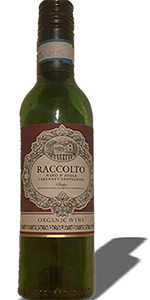
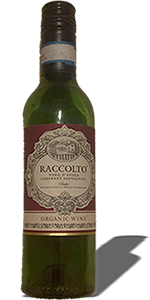
Resized all product images and optimized the portrait image in OM MIG

Changed region(s): [[0.1067, 0.0, 0.9867, 1.0], [0.1867, 0.36, 0.2133, 0.39]]

diff --git a/index.html b/index.html
@@ -64,30 +64,30 @@
           <source
             type="image/webp"
             media="(max-width: 695px)"
-            srcset="img/frilaggning01w150.webp"
+            srcset="img/frilaggning01w125.webp"
           />
           <source
             type="image/webp"
             media="(max-width: 834px)"
-            srcset="img/frilaggning01w230.webp"
+            srcset="img/frilaggning01w150.webp"
           />
-          <source type="image/webp" srcset="img/frilaggning01w250.webp" />
+          <source type="image/webp" srcset="img/frilaggning01w175.webp" />
           <!-- load png in different sizes if browser doesn't support webp -->
           <source
             type="image/png"
             media="(max-width: 834px)"
-            srcset="img/frilaggning01w230.png"
+            srcset="img/frilaggning01w150.png"
           />
           <source
             type="image/png"
             media="(max-width: 695px)"
-            srcset="img/frilaggning01w150.png"
+            srcset="img/frilaggning01w125.png"
           />
-          <source type="image/png" srcset="img/frilaggning01w250.png" />
+          <source type="image/png" srcset="img/frilaggning01w175.png" />
 
           <!-- if all else fails, use the original src -->
           <img
-            src="img/frilaggning01w250.png"
+            src="img/frilaggning01w175.png"
             alt="En bild på en flaska japansk alkoholdryck som heter Sake"
           />
         </picture>
@@ -97,30 +97,30 @@
           <source
             type="image/webp"
             media="(max-width: 695px)"
-            srcset="img/frilaggning02w150.webp"
+            srcset="img/frilaggning02w125.webp"
           />
           <source
             type="image/webp"
             media="(max-width: 834px)"
-            srcset="img/frilaggning02w230.webp"
+            srcset="img/frilaggning02w150.webp"
           />
-          <source type="image/webp" srcset="img/frilaggning02w250.webp" />
+          <source type="image/webp" srcset="img/frilaggning02w175.webp" />
           <!-- load png in different sizes if browser doesn't support webp -->
           <source
             type="image/png"
             media="(max-width: 834px)"
-            srcset="img/frilaggning02w230.png"
+            srcset="img/frilaggning02w150.png"
           />
           <source
             type="image/png"
             media="(max-width: 695px)"
-            srcset="img/frilaggning02w150.png"
+            srcset="img/frilaggning02w125.png"
           />
-          <source type="image/png" srcset="img/frilaggning02w250.png" />
+          <source type="image/png" srcset="img/frilaggning02w175.png" />
 
           <!-- if all else fails, use the original src -->
           <img
-            src="img/frilaggning02w250.png"
+            src="img/frilaggning02w175.png"
             alt="En bild på en flaska rött vin"
           />
         </picture>
@@ -130,30 +130,30 @@
           <source
             type="image/webp"
             media="(max-width: 695px)"
-            srcset="img/frilaggning03w150.webp"
+            srcset="img/frilaggning03w125.webp"
           />
           <source
             type="image/webp"
             media="(max-width: 834px)"
-            srcset="img/frilaggning03w230.webp"
+            srcset="img/frilaggning03w150.webp"
           />
-          <source type="image/webp" srcset="img/frilaggning03w250.webp" />
+          <source type="image/webp" srcset="img/frilaggning03w175.webp" />
           <!-- load png in different sizes if browser doesn't support webp -->
           <source
             type="image/png"
             media="(max-width: 834px)"
-            srcset="img/frilaggning03w230.png"
+            srcset="img/frilaggning03w150.png"
           />
           <source
             type="image/png"
             media="(max-width: 695px)"
-            srcset="img/frilaggning03w150.png"
+            srcset="img/frilaggning03w125.png"
           />
-          <source type="image/png" srcset="img/frilaggning03w250.png" />
+          <source type="image/png" srcset="img/frilaggning03w175.png" />
 
           <!-- if all else fails, use the original src -->
           <img
-            src="img/frilaggning03w250.png"
+            src="img/frilaggning03w175.png"
             alt="En bild på en vattenflaska i högkvalitativ aluminium"
           />
         </picture>

diff --git a/styles/style.css b/styles/style.css
@@ -21,12 +21,14 @@ h1 {
   color: #e75a7c;
   font-weight: 700;
   margin: 7rem 0;
+  text-align: center;
 }
 
 h2 {
   font-size: 3.6rem;
   color: #e75a7c;
   font-weight: 700;
+  text-align: center;
 }
 
 p {
@@ -221,12 +223,12 @@ section.latest-products .products-container {
   align-items: center;
   justify-content: center;
   flex-direction: row;
-  gap: 5vw;
+  gap: 10vw;
   margin-bottom: 4rem;
 }
 section.latest-products .products-container img {
-  width: 25rem;
-  height: 50rem;
+  width: 17.5rem;
+  height: 35rem;
 }
 
 section.course-sellout {
@@ -253,7 +255,6 @@ section.course-sellout h1 {
   line-height: 7rem;
   margin: 0;
   margin-bottom: 3.2rem;
-  text-align: center;
   text-shadow: 0rem 0.4rem 0.4rem rgba(0, 0, 0, 0.25);
   -webkit-hyphens: manual;
           hyphens: manual;
@@ -287,12 +288,9 @@ section.ads img {
 }
 
 @media screen and (max-width: 834px) {
-  section.latest-products .products-container {
-    gap: 0;
-  }
   section.latest-products .products-container img {
-    width: 23rem;
-    height: 45rem;
+    width: 15rem;
+    height: 30rem;
   }
 }
 @media screen and (max-width: 695px) {
@@ -305,8 +303,8 @@ section.ads img {
     flex-wrap: wrap;
   }
   section.latest-products .products-container img {
-    width: 15rem;
-    height: 30rem;
+    width: 12.5rem;
+    height: 25rem;
   }
   section.ads {
     min-height: 72.2vh;
@@ -349,7 +347,6 @@ section.om-mig .content .info-container {
   margin-bottom: 3rem;
 }
 section.om-mig .content .info-container h2 {
-  text-align: center;
   margin-bottom: 2.5rem;
 }
 section.om-mig .content .info-container .info-box ul li {
@@ -363,6 +360,7 @@ section.om-mig .content .info-container .info-box ul li {
   section.om-mig .content {
     flex-wrap: wrap;
     gap: 8rem;
+    justify-content: center;
   }
   section.om-mig .content img {
     margin: auto;
@@ -383,7 +381,6 @@ section.om-mig .content .info-container .info-box ul li {
 }
 section.bildbehandling {
   min-height: 120vh;
-  text-align: center;
 }
 section.bildbehandling .content {
   min-height: inherit;

diff --git a/styles/_homepage.scss b/styles/_homepage.scss
@@ -7,11 +7,11 @@ section.latest-products {
   .products-container {
     width: 100%;
     @include flex(center, center, row);
-    gap: 5vw;
+    gap: 10vw;
     margin-bottom: 4rem;
     img {
-      width: 25rem;
-      height: 50rem;
+      width: 17.5rem;
+      height: 35rem;
     }
   }
 }
@@ -35,7 +35,6 @@ section.course-sellout {
     line-height: 7rem;
     margin: 0;
     margin-bottom: 3.2rem;
-    text-align: center;
     text-shadow: $text-shadow;
     hyphens: manual;
   }
@@ -70,10 +69,9 @@ section.ads {
 @media screen and (max-width: 834px) {
   section.latest-products {
     .products-container {
-      gap: 0;
       img {
-        width: 23rem;
-        height: 45rem;
+        width: 15rem;
+        height: 30rem;
       }
     }
   }
@@ -91,8 +89,8 @@ section.ads {
       width: 50%;
       flex-wrap: wrap;
       img {
-        width: 15rem;
-        height: 30rem;
+        width: 12.5rem;
+        height: 25rem;
       }
     }
   }

diff --git a/omMig/omMig.html b/omMig/omMig.html
@@ -59,7 +59,23 @@
     <section class="om-mig">
       <h1>Om mig</h1>
       <div class="content">
-        <img src="../img/portratt.png" alt="Ett Porträtt av Robin Hawiz" />
+        <picture>
+          <!-- load webp in different sizes if browser supports it -->
+          <source
+            type="image/webp"
+            media="(max-width: 695px)"
+            srcset="../img/portrattSmall.webp"
+          />
+          <source type="image/webp" srcset="../img/portratt.webp" />
+          <!-- load png in different sizes if browser doesn't support webp -->
+          <source
+            type="image/png"
+            media="(max-width: 695px)"
+            srcset="..img/portrattSmall.png"
+          />
+          <img src="../img/portratt.png" alt="Ett Porträtt av Robin Hawiz" />
+        </picture>
+
         <div class="info-container">
           <div class="info-box">
             <h2>Robin Hawiz</h2>

diff --git a/styles/_omMig.scss b/styles/_omMig.scss
@@ -18,7 +18,6 @@ section.om-mig {
       gap: 10rem;
       margin-bottom: 3rem;
       h2 {
-        text-align: center;
         margin-bottom: 2.5rem;
       }
       .info-box {
@@ -42,6 +41,7 @@ section.om-mig {
     .content {
       flex-wrap: wrap;
       gap: 8rem;
+      justify-content: center;
       img {
         margin: auto;
       }

diff --git a/styles/_global.scss b/styles/_global.scss
@@ -59,12 +59,14 @@ h1 {
   color: $h1-color;
   font-weight: $bold-weight;
   margin: 7rem 0;
+  text-align: center;
 }
 
 h2 {
   font-size: $h2-font;
   color: $h2-color;
   font-weight: $bold-weight;
+  text-align: center;
 }
 
 p {

diff --git a/styles/_bildbehandling.scss b/styles/_bildbehandling.scss
@@ -1,6 +1,5 @@
 section.bildbehandling {
   min-height: 120vh;
-  text-align: center;
   .content {
     min-height: inherit;
     @include flex(center, normal, column);
